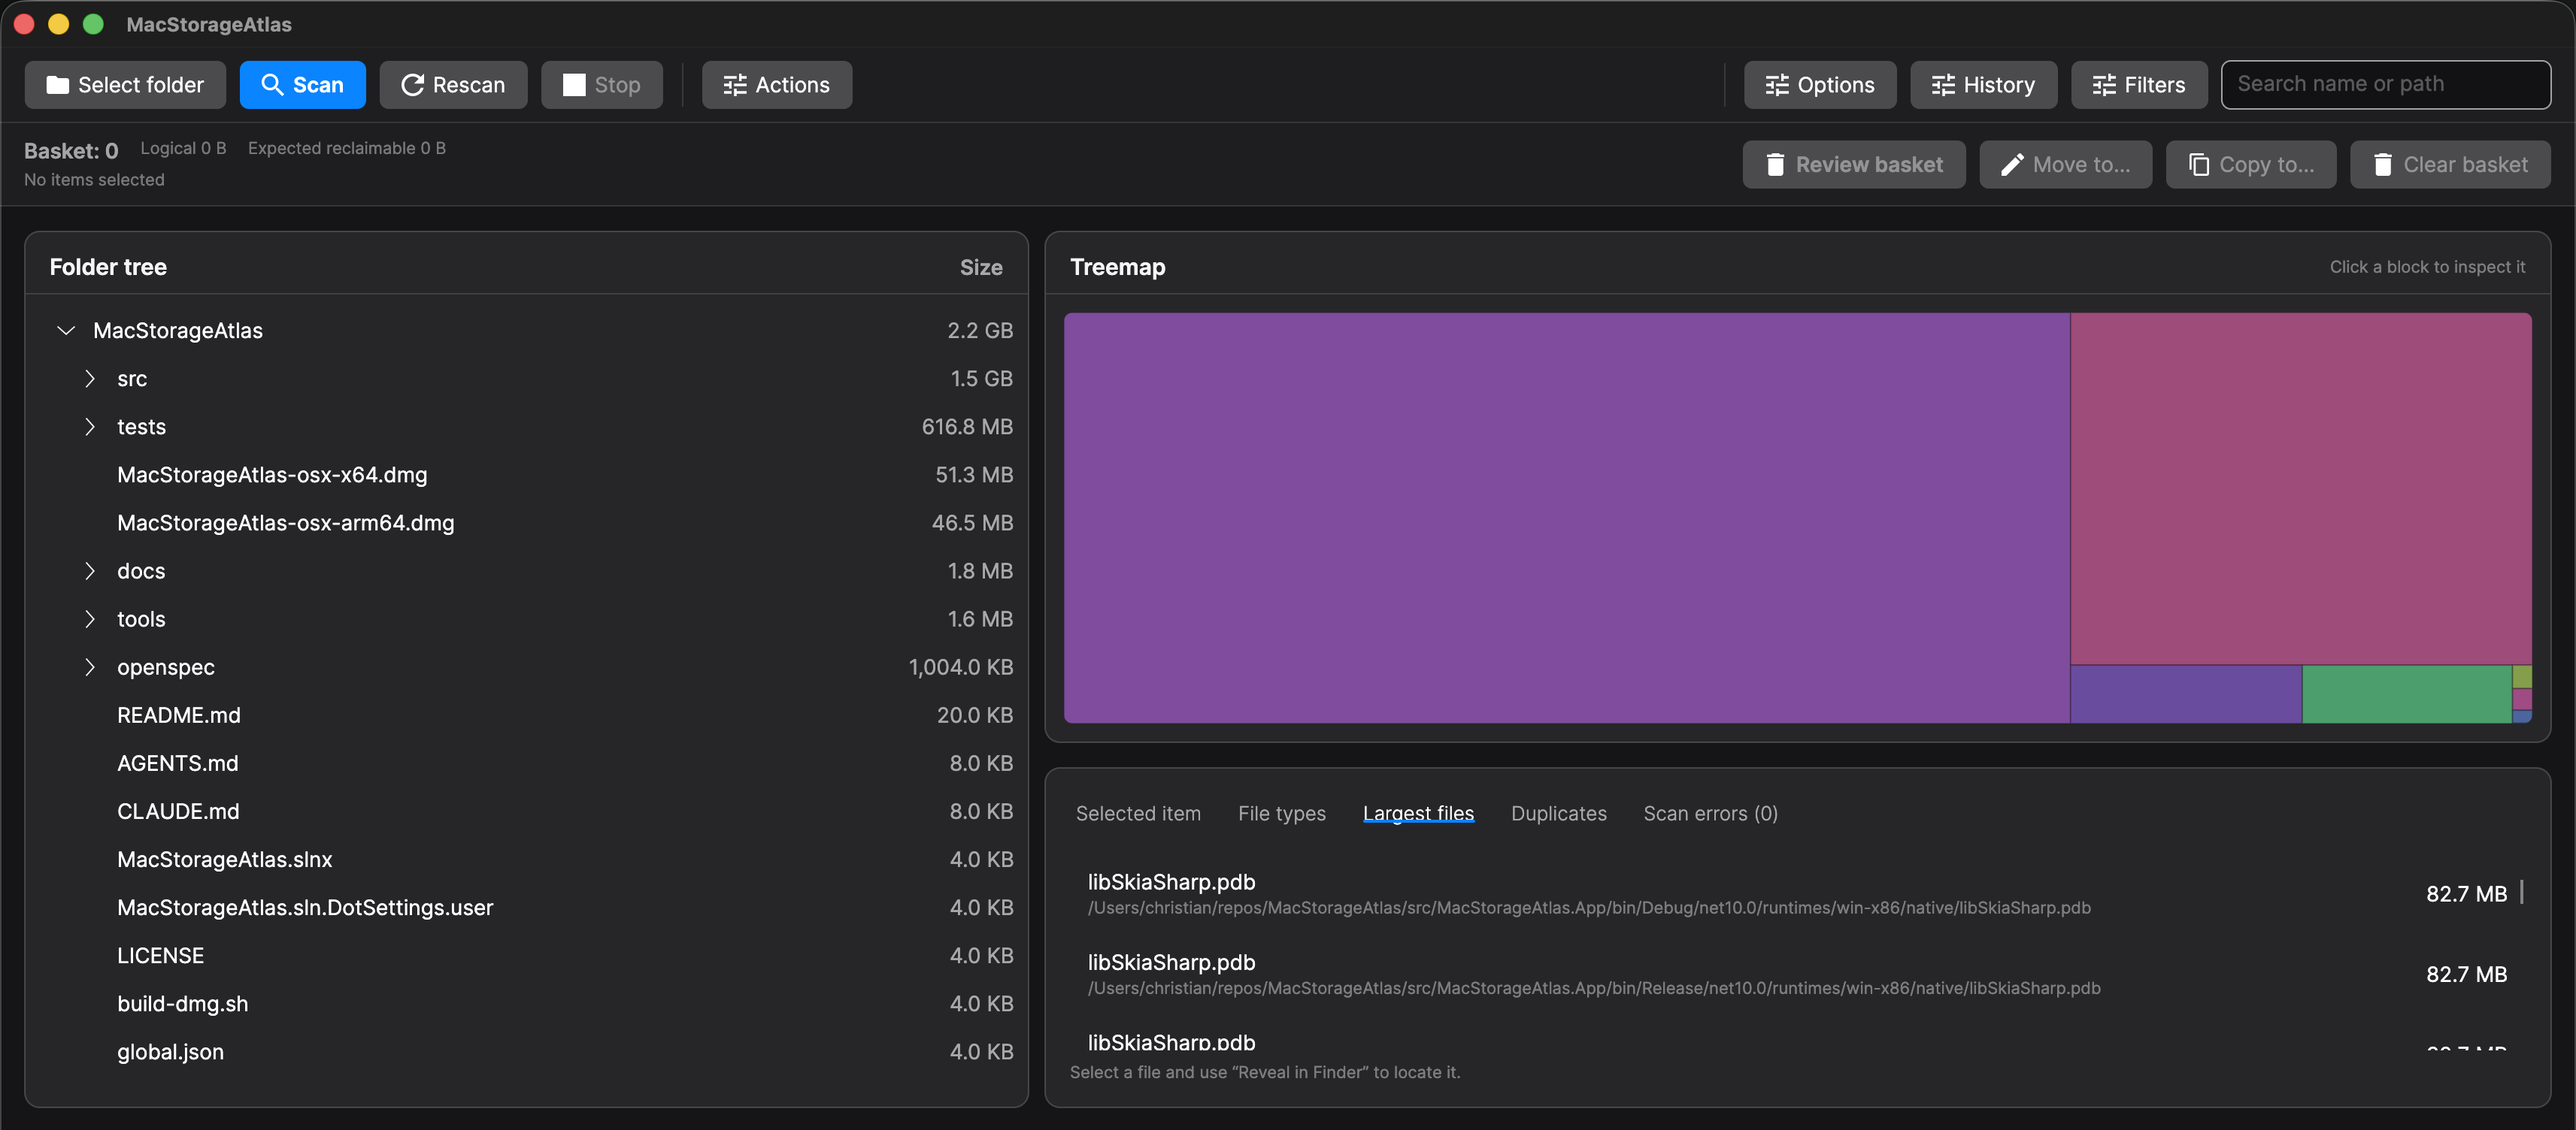
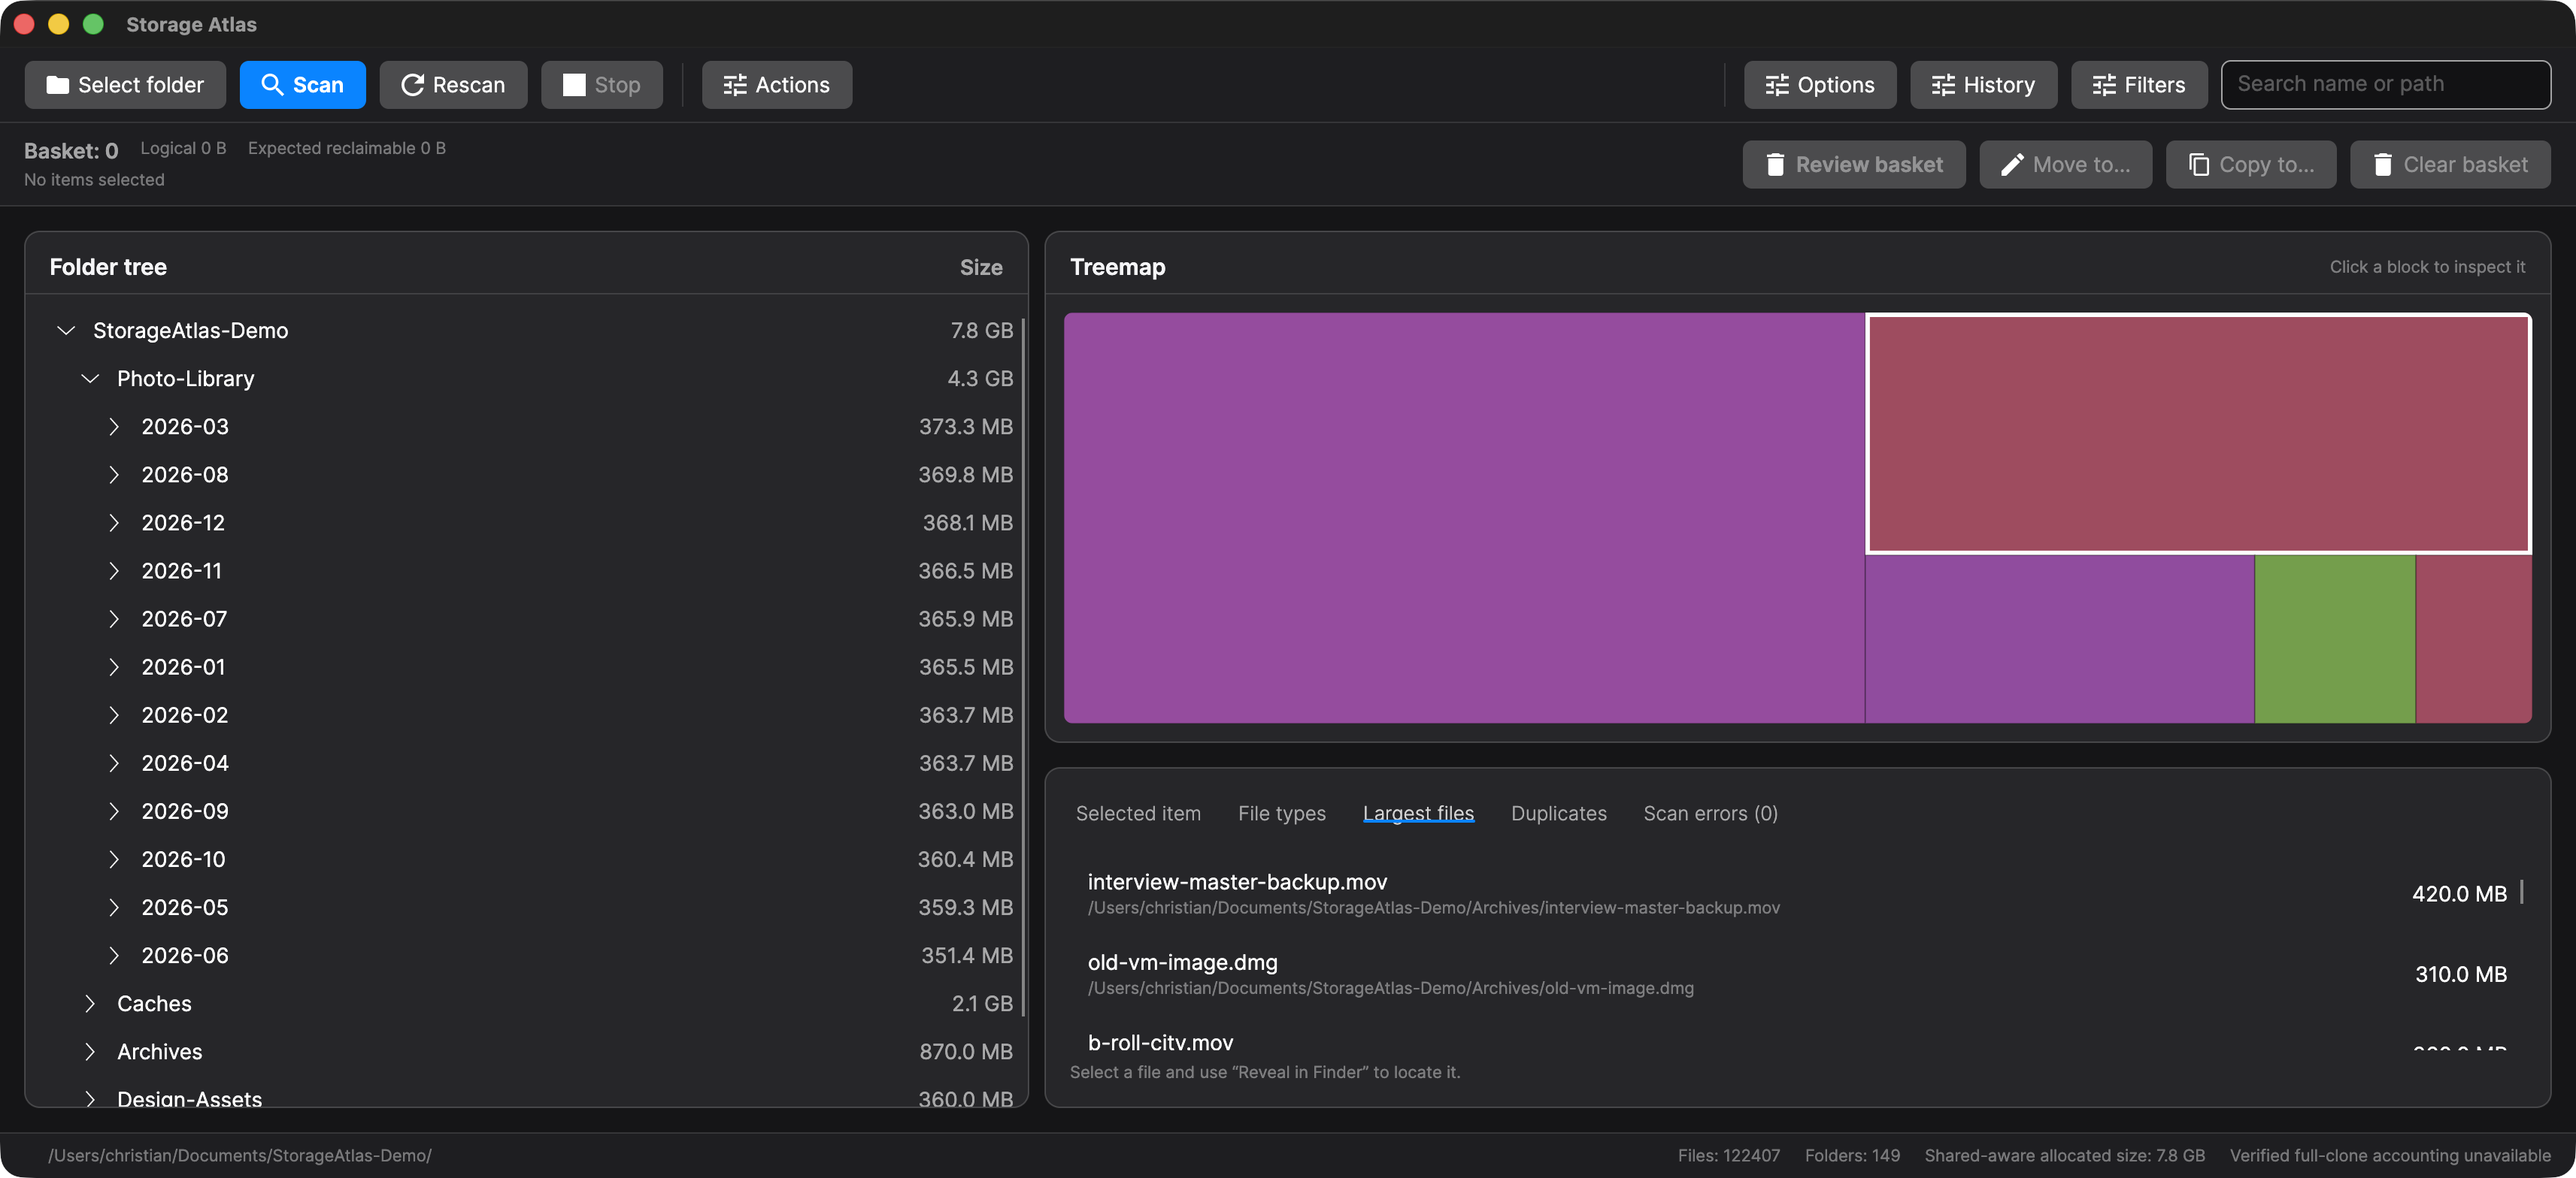
Recapture the product screenshots under the new name
The screenshots still showed "MacStorageAtlas" in the window title and scanned
the repository folder of the same name, so App Review would have seen the
rejected name again in the App Store listing.

Recapture all seven from the renamed build. They now scan a prepared demo folder
of photos, caches, archives, design assets, and video projects instead of the
repository, so no old product name appears and the breakdown reflects the kind
of library a real user scans.

diff --git a/README.md b/README.md
@@ -167,9 +167,9 @@ remembered between runs.
 - Modern, native-feeling UI that follows the system light/dark appearance, with
   a responsive treemap and a live scan-progress overlay.
 
-> Completed-result screenshots above show Storage Atlas analyzing its own
-> project folder — build artifacts included — which is why `.pdb`, `.dll`, and
-> `.dmg` files dominate the breakdown.
+> Completed-result screenshots above show Storage Atlas analyzing a prepared
+> demo folder of photos, caches, archives, design assets, and video projects,
+> so the breakdown reflects the kind of library a real user scans.
 
 > Branding artwork lives under `src/MacStorageAtlas.App/Assets/`: `app.ico` (window
 > icon), `icon.png` (1024×1024 master), and `MacStorageAtlas.icns` for macOS app
